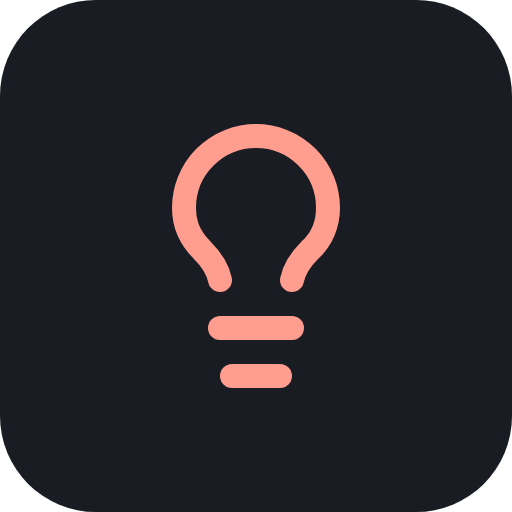
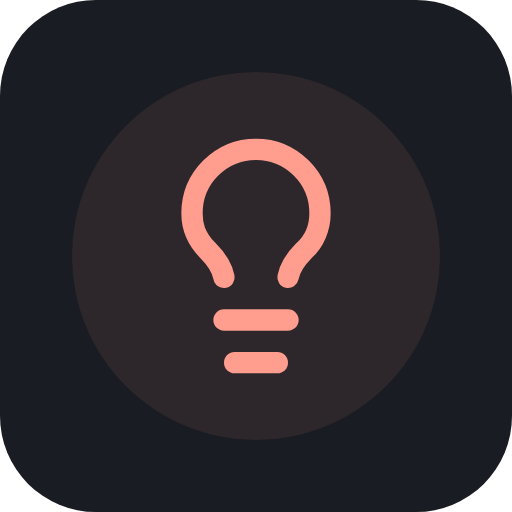
Unify wordmarks in Bricolage and center symbols inside subtle letter circles
Use the Thoughts typeface across all apps, move Context Monitor's symbol to the final o, and balance circle spacing using visible glyph bounds. Match favicon assets and verify rendered symbol centering.

Copilot-Session: f916eafb-b251-46b3-a351-c0035afcd6c8

diff --git a/apps/context-monitor/README.md b/apps/context-monitor/README.md
@@ -47,7 +47,7 @@ Reload extensions after editing an installed copy. Cross-app browser and favicon
 
 Fonts use [Geist](https://github.com/vercel/geist-font) ([license](fonts/LICENSE.txt)). Interface icons use [Phosphor Icons](https://github.com/phosphor-icons/core) ([license](icons/LICENSE)).
 
-Logo: Lucide **Chart Column Increasing** ([license](LUCIDE-LICENSE.txt)) and Space Grotesk ([license](FONT-LICENSE.txt)).
+Logo: Lucide **Chart Column Increasing** ([license](LUCIDE-LICENSE.txt)) and Bricolage Grotesque ([license](FONT-LICENSE.txt)).
 
 ## Publish
 

diff --git a/apps/screenshots/README.md b/apps/screenshots/README.md
@@ -46,4 +46,4 @@ node --test model.test.mjs source.test.mjs server.test.mjs downloads.test.mjs
 
 Reload extensions after edits. Keep private images, histories, and databases out of the repository.
 
-Logo: Lucide **Images** ([license](icons/LICENSE)) and Syne ([license](FONT-LICENSE.txt)).
+Logo: Lucide **Images** ([license](icons/LICENSE)) and Bricolage Grotesque ([license](FONT-LICENSE.txt)).
